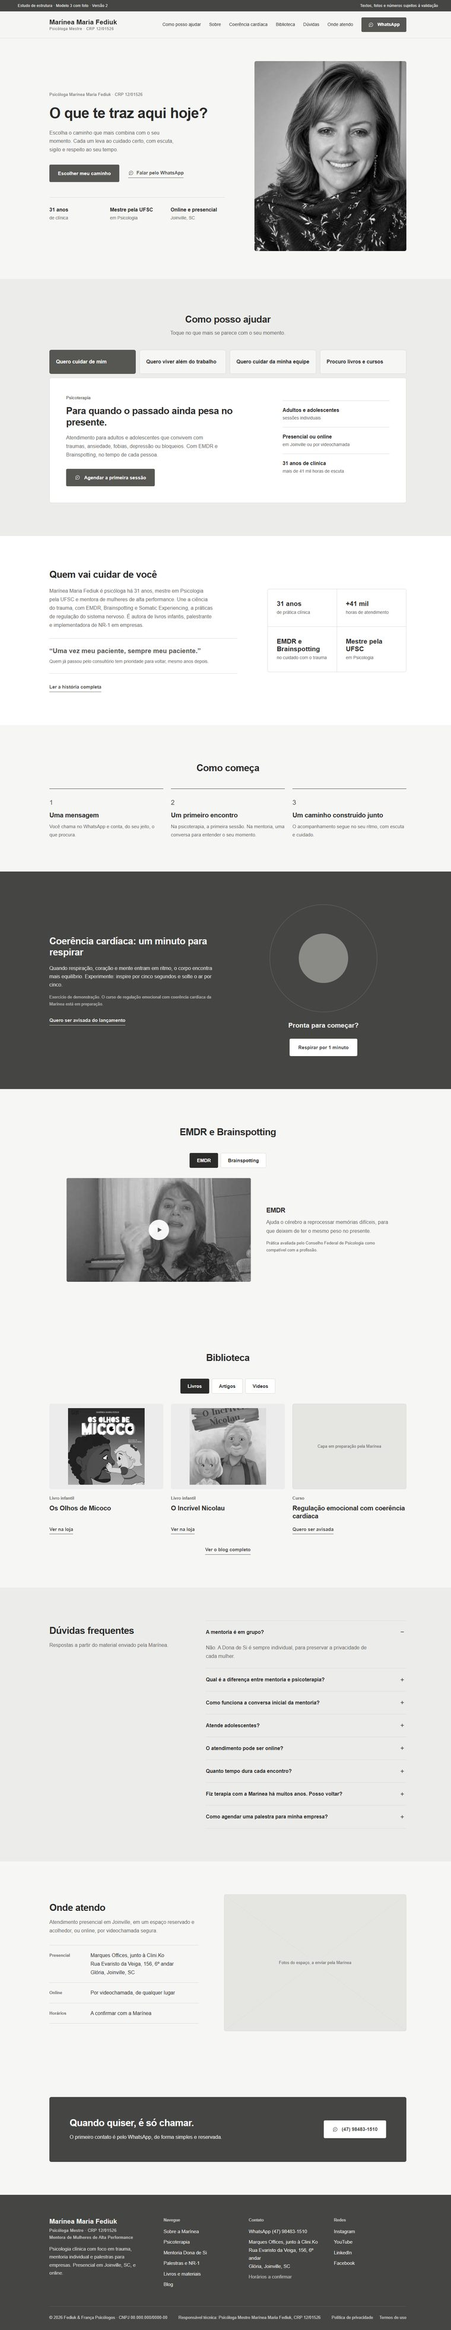
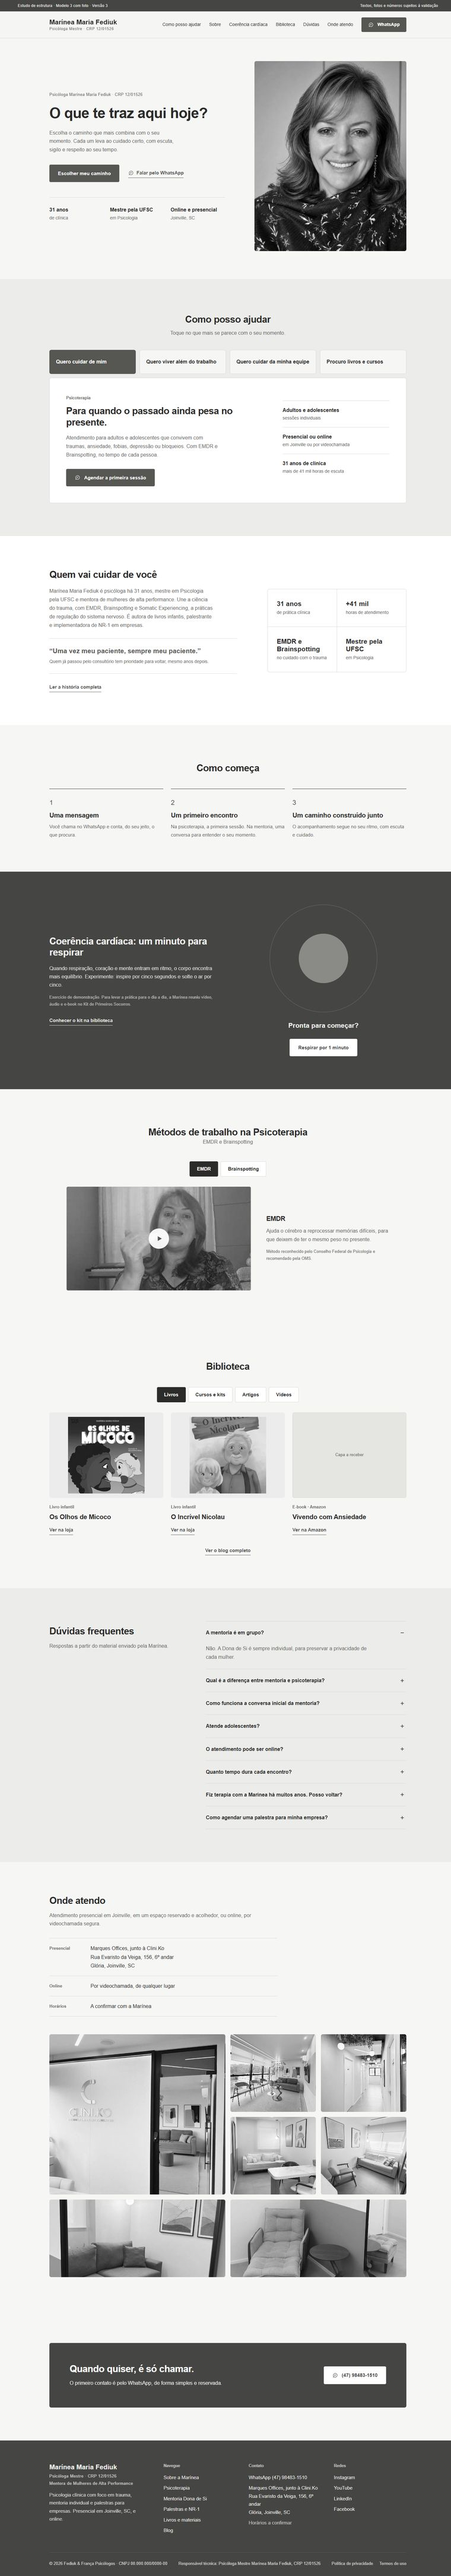
Rodada 3: fotos do espaco, kit e cursos, metodos, FAQ mentoria x psicoterapia

diff --git a/ideias/modelo-3-com-foto.html b/ideias/modelo-3-com-foto.html
@@ -12,7 +12,7 @@
 </head>
 <body>
 <a class="skip" href="#principal">Ir para o conteúdo</a>
-<div class="study"><span>Estudo de estrutura · Modelo 3 com foto · Versão 2</span><span>Textos, fotos e números sujeitos à validação</span></div>
+<div class="study"><span>Estudo de estrutura · Modelo 3 com foto · Versão 3</span><span>Textos, fotos e números sujeitos à validação</span></div>
 <header class="site-header">
   <div class="wrap bar">
     <a class="brand" href="#principal"><strong>Marínea Maria Fediuk</strong><span>Psicóloga Mestre · CRP 12/01526</span></a>
@@ -61,8 +61,8 @@
           <ul class="i3-panel-facts"><li><strong>Palestras</strong>para equipes e lideranças</li><li><strong>NR-1</strong>riscos psicossociais com olhar humano</li><li><strong>Acompanhamento</strong>do diagnóstico à implementação</li></ul>
         </div>
         <div class="i3-panel" role="tabpanel" id="painel-livros" aria-labelledby="tab-livros" tabindex="0" hidden>
-          <div class="i3-panel-copy"><p class="i3-kicker">Livros e materiais</p><h2>Para continuar o cuidado em casa.</h2><p>Livros infantis sobre emoções e relações em família, e o curso de regulação emocional com coerência cardíaca para o dia a dia.</p><a class="button" href="#materiais">Ver a biblioteca</a></div>
-          <ul class="i3-panel-facts"><li><strong>Os Olhos de Micoco</strong>livro infantil digital</li><li><strong>O Incrível Nicolau</strong>livro infantil digital</li><li><strong>Regulação emocional</strong>curso com coerência cardíaca em breve</li></ul>
+          <div class="i3-panel-copy"><p class="i3-kicker">Livros e materiais</p><h2>Para continuar o cuidado em casa.</h2><p>Livros infantis sobre emoções e relações em família, um e-book sobre ansiedade, o kit de coerência cardíaca e um curso de autoconhecimento.</p><a class="button" href="#materiais">Ver a biblioteca</a></div>
+          <ul class="i3-panel-facts"><li><strong>Livros</strong>infantis e sobre ansiedade, em versão digital</li><li><strong>Kit Coerência Cardíaca</strong>vídeo, áudio e e-book</li><li><strong>Ajustando sua Rota</strong>curso de autoconhecimento</li></ul>
         </div>
       </div>
     </div>
@@ -101,8 +101,8 @@
       <div>
         <h2 id="respirar-titulo">Coerência cardíaca: um minuto para respirar</h2>
         <p class="lead">Quando respiração, coração e mente entram em ritmo, o corpo encontra mais equilíbrio. Experimente: inspire por cinco segundos e solte o ar por cinco.</p>
-        <p class="i3-small">Exercício de demonstração. O curso de regulação emocional com coerência cardíaca da Marínea está em preparação.</p>
-        <a class="text-link" href="#contato" data-demo="No site final, este botão abre uma conversa no WhatsApp da Marínea.">Quero ser avisada do lançamento</a>
+        <p class="i3-small">Exercício de demonstração. Para levar a prática para o dia a dia, a Marínea reuniu vídeo, áudio e e-book no Kit de Primeiros Socorros.</p>
+        <a class="text-link" href="#materiais">Conhecer o kit na biblioteca</a>
       </div>
       <div class="i3-breath" data-breath>
         <div class="i3-circle" aria-hidden="true"><div class="i3-circle-inner"><span data-breath-count></span></div></div>
@@ -114,7 +114,7 @@
 
   <section class="i3-section" aria-labelledby="metodo-titulo">
     <div class="wrap">
-      <div class="i3-head"><h2 id="metodo-titulo">EMDR e Brainspotting</h2></div>
+      <div class="i3-head"><h2 id="metodo-titulo">Métodos de trabalho na Psicoterapia</h2><p class="lead">EMDR e Brainspotting</p></div>
       <div class="i3-method" data-tabs>
         <div class="i3-pill-tabs" role="tablist" aria-label="Métodos">
           <button role="tab" id="tab-emdr" aria-controls="painel-emdr" aria-selected="true" type="button">EMDR</button>
@@ -122,7 +122,7 @@
         </div>
         <div class="i3-method-panel" role="tabpanel" id="painel-emdr" aria-labelledby="tab-emdr">
           <button class="video" type="button" data-video="y5rBCnI321k" aria-label="Assistir: O que é EMDR?"><img src="../assets/video-emdr.jpg" alt="" width="480" height="270" loading="lazy"><span class="play"><svg viewBox="0 0 24 24" aria-hidden="true"><path d="M6 4l14 8-14 8z"/></svg></span></button>
-          <div><h3>EMDR</h3><p>Ajuda o cérebro a reprocessar memórias difíceis, para que deixem de ter o mesmo peso no presente.</p><p class="i3-small">Prática avaliada pelo Conselho Federal de Psicologia como compatível com a profissão.</p></div>
+          <div><h3>EMDR</h3><p>Ajuda o cérebro a reprocessar memórias difíceis, para que deixem de ter o mesmo peso no presente.</p><p class="i3-small">Método reconhecido pelo Conselho Federal de Psicologia e recomendado pela OMS.</p></div>
         </div>
         <div class="i3-method-panel" role="tabpanel" id="painel-bsp" aria-labelledby="tab-bsp" hidden>
           <button class="video" type="button" data-video="lNDUKpm4mGg" aria-label="Assistir: O que é Brainspotting?"><img src="../assets/video-brainspotting.jpg" alt="" width="480" height="270" loading="lazy"><span class="play"><svg viewBox="0 0 24 24" aria-hidden="true"><path d="M6 4l14 8-14 8z"/></svg></span></button>
@@ -138,13 +138,18 @@
       <div class="i3-library" data-tabs>
         <div class="i3-pill-tabs" role="tablist" aria-label="Biblioteca">
           <button role="tab" id="tab-lib-livros" aria-controls="lib-livros" aria-selected="true" type="button">Livros</button>
+          <button role="tab" id="tab-lib-cursos" aria-controls="lib-cursos" aria-selected="false" tabindex="-1" type="button">Cursos e kits</button>
           <button role="tab" id="tab-lib-artigos" aria-controls="lib-artigos" aria-selected="false" tabindex="-1" type="button">Artigos</button>
           <button role="tab" id="tab-lib-videos" aria-controls="lib-videos" aria-selected="false" tabindex="-1" type="button">Vídeos</button>
         </div>
         <div class="i3-cards" role="tabpanel" id="lib-livros" aria-labelledby="tab-lib-livros">
-          <article class="i3-card"><img src="../assets/livro-micoco.jpg" alt="Capa do livro Os Olhos de Micoco" width="300" height="300" loading="lazy"><span class="i3-tag">Livro infantil</span><h3>Os Olhos de Micoco</h3><a class="text-link" href="#" data-demo="No site final, este botão leva à página de compra na plataforma escolhida (Hotmart, Greenn ou Amazon).">Ver na loja</a></article>
-          <article class="i3-card"><img src="../assets/livro-nicolau.jpg" alt="Capa do livro O Incrível Nicolau" width="300" height="300" loading="lazy"><span class="i3-tag">Livro infantil</span><h3>O Incrível Nicolau</h3><a class="text-link" href="#" data-demo="No site final, este botão leva à página de compra na plataforma escolhida (Hotmart, Greenn ou Amazon).">Ver na loja</a></article>
-          <article class="i3-card"><div class="i3-card-cover">Capa em preparação pela Marínea</div><span class="i3-tag">Curso</span><h3>Regulação emocional com coerência cardíaca</h3><a class="text-link" href="#contato" data-demo="No site final, este botão abre uma conversa no WhatsApp da Marínea.">Quero ser avisada</a></article>
+          <article class="i3-card"><img src="../assets/livro-micoco.jpg" alt="Capa do livro Os Olhos de Micoco" width="300" height="300" loading="lazy"><span class="i3-tag">Livro infantil</span><h3>Os Olhos de Micoco</h3><a class="text-link" href="#" data-demo="No site final, este botão leva à página de compra na plataforma de venda de cada produto (Amazon, Hotmart ou outra).">Ver na loja</a></article>
+          <article class="i3-card"><img src="../assets/livro-nicolau.jpg" alt="Capa do livro O Incrível Nicolau" width="300" height="300" loading="lazy"><span class="i3-tag">Livro infantil</span><h3>O Incrível Nicolau</h3><a class="text-link" href="#" data-demo="No site final, este botão leva à página de compra na plataforma de venda de cada produto (Amazon, Hotmart ou outra).">Ver na loja</a></article>
+          <article class="i3-card"><div class="i3-card-cover">Capa a receber</div><span class="i3-tag">E-book · Amazon</span><h3>Vivendo com Ansiedade</h3><a class="text-link" href="https://www.amazon.com.br/Vivendo-com-Ansiedade-Estrat%C3%A9gias-autoconhecimento-ebook/dp/B0FYYK7HXL" target="_blank" rel="noopener">Ver na Amazon</a></article>
+        </div>
+        <div class="i3-cards i3-cards-tall" role="tabpanel" id="lib-cursos" aria-labelledby="tab-lib-cursos" hidden>
+          <article class="i3-card"><img src="../assets/capa-kit-coerencia.jpg" alt="Kit de Primeiros Socorros para Mulheres de Alta Performance: vídeo-bônus, áudio SOS Coerência e e-book Coerência Cardíaca" width="800" height="1000" loading="lazy"><span class="i3-tag">Produto digital</span><h3>Kit de Primeiros Socorros para Mulheres de Alta Performance</h3><p class="i3-small">Vídeo-bônus, áudio “SOS Coerência” e e-book “Coerência Cardíaca”.</p><a class="text-link" href="#" data-demo="No site final, este botão leva à página de compra na plataforma de venda de cada produto (Amazon, Hotmart ou outra).">Quero o kit</a></article>
+          <article class="i3-card"><div class="i3-card-cover">Capa a receber</div><span class="i3-tag">Curso · Hotmart</span><h3>Ajustando sua Rota</h3><p class="i3-small">Autoconhecimento para escolhas mais conscientes, em dez módulos.</p><a class="text-link" href="https://hotmart.com/pt-br/marketplace/produtos/ajustando-sua-rota/F7750654O" target="_blank" rel="noopener">Ver na Hotmart</a></article>
         </div>
         <div class="i3-cards" role="tabpanel" id="lib-artigos" aria-labelledby="tab-lib-artigos" hidden>
           <a class="i3-card" href="#" data-demo="Esta página interna será desenhada depois da escolha do layout." id="blog"><img src="../assets/blog-inverno.jpg" alt="" width="640" height="800" loading="lazy"><span class="i3-tag">Autocuidado</span><h3>O convite do inverno: por que precisamos desacelerar</h3></a>
@@ -166,7 +171,24 @@
       <div><h2 id="duvidas-titulo">Dúvidas frequentes</h2><p class="lead">Respostas a partir do material enviado pela Marínea.</p></div>
       <div class="i3-faq-list">
         <details open><summary>A mentoria é em grupo?<span aria-hidden="true"></span></summary><p>Não. A Dona de Si é sempre individual, para preservar a privacidade de cada mulher.</p></details>
-        <details><summary>Qual é a diferença entre mentoria e psicoterapia?<span aria-hidden="true"></span></summary><p>A mentoria é um processo de autoconhecimento, desenvolvimento e transformação pessoal. Não substitui a psicoterapia, mas pode caminhar junto a ela.</p></details>
+        <details><summary>Qual é a diferença entre mentoria e psicoterapia?<span aria-hidden="true"></span></summary><div class="m3-faq-long">
+          <p>Embora ambas envolvam conversas e reflexões, a mentoria e a psicoterapia são processos com finalidades, métodos e naturezas distintas. Entender essa diferença é fundamental para que você escolha o caminho mais adequado para o seu momento.</p>
+          <h4>Finalidade</h4>
+          <p>A <strong>mentoria</strong> é um processo orientado para o desenvolvimento de habilidades, competências e objetivos específicos, geralmente ligados à carreira, negócios, liderança ou projetos pessoais. O foco está no aprendizado a partir da experiência de alguém mais experiente em determinada área.</p>
+          <p>A <strong>psicoterapia</strong> é um processo clínico voltado para a compreensão e o cuidado de aspectos psicológicos e emocionais, como ansiedade, depressão, traumas, conflitos e padrões de relacionamento que se repetem. O foco está no universo interno e na saúde emocional.</p>
+          <h4>Direção do olhar</h4>
+          <p>A mentoria olha para o <strong>futuro</strong> e para <strong>fora</strong>: o que você quer construir, onde quer chegar, quais estratégias precisa desenvolver. Parte de objetivos definidos por você, com o suporte de quem já percorreu um caminho semelhante.</p>
+          <p>A psicoterapia olha para o <strong>presente</strong> e para <strong>dentro</strong>: o que você sente, como seus padrões se formaram, quais experiências moldaram sua forma de estar no mundo. O passado é explorado para compreender o que se repete e abrir espaço para novas formas de lidar com as dificuldades.</p>
+          <h4>Formação do profissional</h4>
+          <p>A psicoterapia é realizada exclusivamente por psicólogos com formação clínica, credenciados pelo Conselho Federal de Psicologia (CFP).</p>
+          <p>A mentoria pode ser conduzida por profissionais de diversas áreas que tenham experiência comprovada no tema em que atuam. No caso de psicólogos que também atuam como mentores, a prática é permitida desde que a(o) profissional siga rigorosamente os Princípios Fundamentais e artigos do Código de Ética Profissional do Psicólogo (Res. CFP nº 010/2005). Isso significa que, mesmo em uma relação de mentoria, o psicólogo não pode usar técnicas ou métodos que são privativos da Psicologia, nem realizar intervenções de natureza clínica.</p>
+          <h4>Natureza da relação</h4>
+          <p>Na psicoterapia, a relação é assimétrica, mas o saber sobre a própria vida é do paciente. O terapeuta não entrega soluções: ele acompanha um processo de elaboração e autoconhecimento.</p>
+          <p>Na mentoria, a relação é de tutoria: o mentor compartilha conhecimentos, experiências e perspectivas para ajudar o mentorado a tomar decisões e encurtar caminhos. O saber técnico e a vivência de quem mentora são recursos do processo.</p>
+          <h4>Ética e limites</h4>
+          <p>Quando um psicólogo atua como mentor, é fundamental que deixe <strong>muito claro</strong> que se trata de um serviço de orientação e desenvolvimento, e não de psicoterapia. Se, durante o processo de mentoria, o profissional identificar que a demanda da pessoa exige cuidados clínicos, é dever ético informar e encaminhar para o atendimento psicológico adequado.</p>
+          <p>Mentoria e psicoterapia não se substituem. Podem, inclusive, caminhar juntas, mas cada uma tem seu lugar, sua função e seus limites éticos.</p>
+        </div></details>
         <details><summary>Como funciona a conversa inicial da mentoria?<span aria-hidden="true"></span></summary><p>É um espaço de escuta e acolhimento. Você conta o que está vivendo e a Marínea explica como a mentoria pode ajudar.</p></details>
         <details><summary>Atende adolescentes?<span aria-hidden="true"></span></summary><p>Sim. A psicoterapia atende adultos e adolescentes.</p></details>
         <details><summary>O atendimento pode ser online?<span aria-hidden="true"></span></summary><p>Sim. O atendimento online é feito por videochamada segura. O presencial acontece em consultório reservado em Joinville.</p></details>
@@ -188,7 +210,17 @@
           <div><dt>Horários</dt><dd>A confirmar com a Marínea</dd></div>
         </dl>
       </div>
-      <figure class="m3-place-photo photo-slot"><span class="slot-label">Fotos do espaço, a enviar pela Marínea</span></figure>
+    </div>
+    <div class="wrap">
+      <ul class="m3-gallery" aria-label="Fotos do espaço de atendimento">
+        <li class="m3-g-big"><img src="../assets/espaco-entrada.jpg" alt="Entrada do espaço Clini.Ko, com a sala de espera ao fundo" width="900" height="1200" loading="lazy"></li>
+        <li><img src="../assets/espaco-recepcao.jpg" alt="Sala de espera com sofá, poltronas e janelas amplas" width="900" height="1200" loading="lazy"></li>
+        <li><img src="../assets/espaco-corredor.jpg" alt="Corredor com iluminação suave e plantas no teto" width="900" height="1200" loading="lazy"></li>
+        <li><img src="../assets/espaco-sala-mesa.jpg" alt="Sala de atendimento com sofá, mesa e quadros" width="900" height="1200" loading="lazy"></li>
+        <li><img src="../assets/espaco-sala-janela.jpg" alt="Sala de atendimento com sofá, poltrona e luz natural" width="900" height="1200" loading="lazy"></li>
+        <li class="m3-g-wide"><img src="../assets/espaco-sala-verde.jpg" alt="Sala de atendimento com sofá verde e quadros" width="900" height="1200" loading="lazy"></li>
+        <li class="m3-g-wide"><img src="../assets/espaco-sala-chaise.jpg" alt="Canto de descanso com chaise e espelho" width="900" height="1200" loading="lazy"></li>
+      </ul>
     </div>
   </section>
 

diff --git a/index.html b/index.html
@@ -1,11 +1,11 @@
 <!doctype html><html lang="pt-BR"><head><meta charset="utf-8"><meta name="viewport" content="width=device-width,initial-scale=1"><meta name="robots" content="noindex,nofollow"><meta name="description" content="Estudo de layout para o novo site da Psicóloga Marínea Maria Fediuk, desenvolvido pela Agência Kamino."><meta property="og:type" content="website"><meta property="og:url" content="https://rochamaatheus.github.io/marinea-apresentacao/"><meta property="og:title" content="Novo site da Marínea Fediuk: três ideias de layout"><meta property="og:description" content="Estudo de estrutura da Agência Kamino. Explore as três ideias e escolha as partes que mais combinam com você."><meta property="og:image" content="https://rochamaatheus.github.io/marinea-apresentacao/assets/og-image.jpg"><meta property="og:image:width" content="1200"><meta property="og:image:height" content="630"><meta name="twitter:card" content="summary_large_image"><title>Marínea Fediuk | Apresentação de layout | Agência Kamino</title><link rel="icon" href="assets/kamino-icon.webp"><link rel="stylesheet" href="assets/hub.css"></head><body>
 <header><div class="wrap top"><img src="assets/kamino-logo.webp" alt="Agência Kamino" width="160"><span>Psicóloga Marínea Fediuk</span><a href="#propostas">Ver propostas ↓</a></div></header>
 <main>
-<section class="hero wrap"><p class="tag">Segunda rodada de layout.</p><h1>O modelo 3,<br>agora com<br>a sua foto.</h1><p class="lead">Você gostou do modelo 3 e pediu a sua foto logo no início, como no modelo 1. Montamos essa versão, ajustamos o endereço e aproveitamos para deixar a página mais organizada e mais profissional.</p><div class="hero-bottom"><a class="button" href="#novo-modelo">Ver o modelo atualizado <span aria-hidden="true">↗</span></a><p>As três ideias da primeira rodada<br>continuam disponíveis mais abaixo.</p></div></section>
+<section class="hero wrap"><p class="tag">Terceira rodada de layout.</p><h1>O modelo 3,<br>com as suas<br>fotos e textos.</h1><p class="lead">Você aprovou a foto no início, o endereço e a nova organização da página. Nesta versão entraram as fotos do espaço, os produtos que você enviou e os seus textos sobre os métodos e sobre a diferença entre mentoria e psicoterapia.</p><div class="hero-bottom"><a class="button" href="#novo-modelo">Ver o modelo atualizado <span aria-hidden="true">↗</span></a><p>As três ideias da primeira rodada<br>continuam disponíveis mais abaixo.</p></div></section>
 
-<section class="wrap section" id="novo-modelo"><div class="section-title"><h2>O que mudou<br>nesta versão.</h2><p>Aplicamos o que você pediu e fizemos alguns refinamentos de organização. A página continua em cinza de propósito: a conversa ainda é sobre estrutura.</p></div><article class="idea idea-wide"><a class="preview" href="ideias/modelo-3-com-foto.html" aria-label="Abrir o modelo 3 com a sua foto"><img src="assets/preview-5.jpg" alt="Visão geral do modelo 3 atualizado, com a foto da Marínea no início" width="760" height="3925" loading="lazy"><span>Modelo 3</span></a><div class="idea-body"><p class="tag">Versão 2, disponível para avaliar</p><h3>Modelo 3 com a sua foto</h3><p class="base">Caminhos guiados, com abertura acolhedora</p><p>A pergunta “o que te traz aqui hoje?” continua sendo o centro da página, agora ao lado do seu retrato.</p><ul><li><strong>Sua foto no início</strong>, ao lado da pergunta, como no modelo 1.</li><li><strong>Endereço sem o número da sala</strong>: Rua Evaristo da Veiga, 156, 6º andar. Mudou na página inicial, na página da mentoria e nas três ideias.</li><li><strong>Curso de Regulação Emocional</strong> com coerência cardíaca no lugar do antigo e-book, com o espaço da capa que você vai preparar.</li><li><strong>Nova seção “Onde atendo”</strong>, com espaço reservado para as fotos do espaço que você vai tentar conseguir.</li><li><strong>Apresentação mais forte</strong>: títulos maiores, “Quem vai cuidar de você” logo depois dos caminhos, com os números da sua trajetória, e a foto sem repetição.</li><li><strong>Contato mais limpo</strong>: o endereço saiu do bloco final e ficou em um só lugar.</li></ul><a class="button" href="ideias/modelo-3-com-foto.html">Abrir o modelo atualizado <span aria-hidden="true">↗</span></a></div></article></section>
+<section class="wrap section" id="novo-modelo"><div class="section-title"><h2>O que mudou<br>nesta versão.</h2><p>Aplicamos o que você enviou ontem. A página continua em cinza de propósito: a conversa ainda é sobre estrutura. As cores, as fontes e o acabamento das fotos entram no design final.</p></div><article class="idea idea-wide"><a class="preview" href="ideias/modelo-3-com-foto.html" aria-label="Abrir o modelo 3 com a sua foto"><img src="assets/preview-5.jpg" alt="Visão geral do modelo 3 atualizado, com a foto da Marínea no início" width="760" height="4339" loading="lazy"><span>Modelo 3</span></a><div class="idea-body"><p class="tag">Versão 3, disponível para avaliar</p><h3>Modelo 3 com a sua foto</h3><p class="base">Caminhos guiados, com abertura acolhedora</p><p>A pergunta “o que te traz aqui hoje?” continua sendo o centro da página, ao lado do seu retrato. Já estavam aprovados: a foto no início, o endereço sem a sala e a página mais organizada, com “Quem vai cuidar de você” logo depois dos caminhos.</p><ul><li><strong>“Onde atendo” com as fotos do espaço</strong>: as sete fotos da Clini.Ko que você enviou, da entrada às salas de atendimento.</li><li><strong>Kit de Primeiros Socorros</strong> (Coerência Cardíaca) na biblioteca, na aba “Cursos e kits”, com a arte que você enviou como capa.</li><li><strong>“Ajustando sua Rota” fica no site</strong>, com o link da Hotmart, ao lado do kit.</li><li><strong>E-book “Vivendo com Ansiedade”</strong> na aba “Livros”, com o link da Amazon.</li><li><strong>“Métodos de trabalho na Psicoterapia”</strong> como título da seção de EMDR e Brainspotting, com a frase nova sobre o EMDR.</li><li><strong>Diferença entre mentoria e psicoterapia</strong>: o seu texto completo nas dúvidas frequentes, dividido nos cinco temas, e também na página da mentoria.</li></ul><a class="button" href="ideias/modelo-3-com-foto.html">Abrir o modelo atualizado <span aria-hidden="true">↗</span></a></div></article></section>
 
-<section class="wrap section feedback"><div><h2>O que gostaríamos<br>de ouvir de você.</h2><p>Quanto mais detalhe, melhor.<br>Pode responder só os pontos que quiser, por mensagem, áudio ou nos prints da pasta do Drive.</p></div><div class="examples"><p><strong>Foto:</strong> o tamanho, a posição e a foto escolhida estão como você imaginou? Prefere outra foto no início?</p><p><strong>Os quatro caminhos:</strong> os nomes “Quero cuidar de mim”, “Quero viver além do trabalho”, “Quero cuidar da minha equipe” e “Procuro livros e cursos” fazem sentido para o seu público?</p><p><strong>Textos:</strong> há alguma frase que você mudaria ou algo que não soa como você?</p><p><strong>O que falta:</strong> sente falta de algum bloco (depoimentos, linha do tempo, mais vídeos) ou acha que tem coisa demais?</p><p><strong>Endereço:</strong> podemos manter “6º andar” sem a sala? Se o número do andar também mudar, é só avisar.</p><p><strong>Curso:</strong> o nome “Regulação emocional com coerência cardíaca” está correto? Quando a capa estiver pronta, é só nos enviar.</p></div></section>
+<section class="wrap section feedback"><div><h2>O que gostaríamos<br>de ouvir de você.</h2><p>Quanto mais detalhe, melhor.<br>Pode responder só os pontos que quiser, por mensagem, áudio ou nos prints da pasta do Drive.</p></div><div class="examples"><p><strong>Fotos do espaço:</strong> a seleção e a ordem estão boas? Quer destacar alguma sala ou tirar alguma foto?</p><p><strong>Capas:</strong> falta a capa do e-book “Vivendo com Ansiedade” e a do curso “Ajustando sua Rota”. Pode nos enviar, ou usamos as que estão nas lojas?</p><p><strong>Kit de Primeiros Socorros:</strong> onde ele será vendido (Hotmart, Amazon ou outra plataforma) e se já está à venda ou ainda em lançamento?</p><p><strong>Textos:</strong> a frase sobre o EMDR e o texto da diferença entre mentoria e psicoterapia estão como você queria?</p><p><strong>Aprovação:</strong> com esses ajustes, podemos considerar esta estrutura fechada e seguir para o design final, com cores, fontes e fotos definitivas?</p></div></section>
 
 <section class="wrap section"><div class="section-title"><h2>As ideias da<br>primeira rodada.</h2><p>Caso queira rever alguma parte ou trazer algo delas para o modelo 3, as três ideias seguem abaixo.</p></div></section>
 
@@ -18,7 +18,7 @@
 <li><strong>Dentro das regras do Conselho</strong><span>Sem preço como chamada, sem promoção, sem sessão gratuita e sem promessa de resultado.</span></li>
 <li><strong>Um tom suave e elegante</strong><span>Frases calmas, espaço para respirar entre os blocos e as suas frases: “uma vez meu paciente, sempre meu paciente” e “nós somos um corpo onde tudo acontece”.</span></li>
 <li><strong>Seu material já está aqui</strong><span>Sua foto nova, o endereço do consultório na Clini.Ko, o mestrado pela UFSC, as 41 mil horas e o atendimento online e presencial.</span></li>
-<li><strong>O que fica e o que sai</strong><span>Continuam os vídeos de EMDR e Brainspotting, os livros infantis e o blog. Entra a coerência cardíaca. Sai o curso de 2018.</span></li>
+<li><strong>O que fica e o que sai</strong><span>Continuam os vídeos de EMDR e Brainspotting, os livros infantis e o blog. Entram a coerência cardíaca e o e-book da Amazon. O curso “Ajustando sua Rota” continua, por decisão sua.</span></li>
 </ul></section>
 
 <section class="wrap section" id="propostas"><div class="section-title"><h2>Três direções.<br>O mesmo cuidado.</h2><p>A primeira acolhe e explica com clareza. A segunda apresenta a sua trajetória como autora. A terceira pergunta o que a pessoa procura e mostra o caminho.</p></div><div class="ideas">
@@ -33,5 +33,5 @@
 
 <section class="wrap section"><div class="section-title"><h2>As páginas<br>do novo site.</h2><p>Nesta etapa desenhamos a página inicial e a página da mentoria. As outras páginas internas seguem a ideia que você escolher.</p></div><ul class="sitemap"><li class="on">Início</li><li>Sobre a Marínea</li><li>Psicoterapia</li><li class="on">Mentoria Dona de Si</li><li>Palestras e NR-1</li><li>Livros e materiais digitais</li><li>Blog</li><li>Contato</li></ul><p class="sitemap-note">O endereço continua o mesmo: psicologamarineafediuk.com. O site novo substitui o atual quando estiver pronto.</p></section>
 
-<section class="wrap section"><div class="pending"><h2>O que ainda vamos receber e validar.</h2><ul><li><strong>Fotos:</strong> as fotos do espaço novo (coworking), a sessão com a Thaíse e fotos em atendimento. Enquanto isso, a seção “Onde atendo” mostra um espaço reservado.</li><li><strong>Curso:</strong> a capa do curso de Regulação Emocional com coerência cardíaca, que você vai preparar.</li><li><strong>Fotos antigas:</strong> a foto do consultório antigo aparece só nas ideias da primeira rodada e será trocada. Por enquanto usamos a sua foto recente.</li><li><strong>Marca:</strong> o arquivo da sua ilustração com as borboletas e da assinatura, de preferência em PNG com fundo transparente ou vetor.</li><li><strong>Produtos:</strong> a plataforma de venda (Hotmart, Greenn ou Amazon) e a lista completa de livros.</li><li><strong>Contato:</strong> os horários de atendimento e o número do CNPJ da Fediuk &amp; França Psicólogos para o rodapé.</li><li><strong>Linha do tempo:</strong> os anos de cada etapa da sua formação, se quiser usar a ideia 2.</li></ul><p><strong>Para conferirmos juntos antes de publicar:</strong> mantivemos os textos da mentoria exatamente como você escreveu. Alguns pontos, como “cura de traumas” e as técnicas TAT e EFT, valem uma conferida com as orientações do Conselho sobre previsão de resultados e técnicas reconhecidas. Você conhece essas regras melhor do que ninguém, então a decisão é sua.</p><p>Os botões de WhatsApp e de compra são demonstrativos e não enviam mensagens. Os vídeos são os do seu canal do YouTube.</p></div></section>
+<section class="wrap section"><div class="pending"><h2>O que ainda vamos receber e validar.</h2><ul><li><strong>Fotos:</strong> a sessão profissional e fotos em atendimento, se houver. As fotos do espaço já estão na página; podem ser trocadas por outras a qualquer momento.</li><li><strong>Capas:</strong> a do e-book “Vivendo com Ansiedade” e a do curso “Ajustando sua Rota”.</li><li><strong>Fotos antigas:</strong> a foto do consultório antigo aparece só nas ideias da primeira rodada e será trocada. Por enquanto usamos a sua foto recente.</li><li><strong>Marca:</strong> o arquivo da sua ilustração com as borboletas e da assinatura, de preferência em PNG com fundo transparente ou vetor.</li><li><strong>Produtos:</strong> a plataforma de venda do Kit de Primeiros Socorros e a lista completa de livros.</li><li><strong>Contato:</strong> os horários de atendimento e o número do CNPJ da Fediuk &amp; França Psicólogos para o rodapé.</li><li><strong>Linha do tempo:</strong> os anos de cada etapa da sua formação, se quiser usar a ideia 2.</li></ul><p><strong>Para conferirmos juntos antes de publicar:</strong> mantivemos os textos da mentoria exatamente como você escreveu. Alguns pontos, como “cura de traumas” e as técnicas TAT e EFT, valem uma conferida com as orientações do Conselho sobre previsão de resultados e técnicas reconhecidas. Você conhece essas regras melhor do que ninguém, então a decisão é sua.</p><p>Os botões de WhatsApp e de compra são demonstrativos e não enviam mensagens. Os vídeos são os do seu canal do YouTube.</p></div></section>
 </main><footer class="wrap footer"><img src="assets/kamino-logo.webp" alt="Agência Kamino" width="130"><span>Psicóloga Marínea Maria Fediuk · Apresentação de layout</span><a href="#">Voltar ao início ↑</a></footer></body></html>

diff --git a/ideias/mentoria-dona-de-si.html b/ideias/mentoria-dona-de-si.html
@@ -93,7 +93,24 @@
       <h2 id="duvidas-titulo" class="m-title">Perguntas frequentes</h2>
       <div class="m-faq-list">
         <details open><summary>O atendimento é sigiloso?<span aria-hidden="true"></span></summary><p>Sim. O atendimento é individual, online ou presencial, com total discrição e confidencialidade.</p></details>
-        <details><summary>Qual é a diferença entre mentoria e psicoterapia?<span aria-hidden="true"></span></summary><p>A mentoria é um processo de autoconhecimento, desenvolvimento e transformação pessoal. Não substitui a psicoterapia, mas pode caminhar junto a ela. No meu trabalho, integro ferramentas clínicas e de mentoria conforme a necessidade de cada mulher.</p></details>
+        <details><summary>Qual é a diferença entre mentoria e psicoterapia?<span aria-hidden="true"></span></summary><div class="m3-faq-long">
+          <p>Embora ambas envolvam conversas e reflexões, a mentoria e a psicoterapia são processos com finalidades, métodos e naturezas distintas. Entender essa diferença é fundamental para que você escolha o caminho mais adequado para o seu momento.</p>
+          <h4>Finalidade</h4>
+          <p>A <strong>mentoria</strong> é um processo orientado para o desenvolvimento de habilidades, competências e objetivos específicos, geralmente ligados à carreira, negócios, liderança ou projetos pessoais. O foco está no aprendizado a partir da experiência de alguém mais experiente em determinada área.</p>
+          <p>A <strong>psicoterapia</strong> é um processo clínico voltado para a compreensão e o cuidado de aspectos psicológicos e emocionais, como ansiedade, depressão, traumas, conflitos e padrões de relacionamento que se repetem. O foco está no universo interno e na saúde emocional.</p>
+          <h4>Direção do olhar</h4>
+          <p>A mentoria olha para o <strong>futuro</strong> e para <strong>fora</strong>: o que você quer construir, onde quer chegar, quais estratégias precisa desenvolver. Parte de objetivos definidos por você, com o suporte de quem já percorreu um caminho semelhante.</p>
+          <p>A psicoterapia olha para o <strong>presente</strong> e para <strong>dentro</strong>: o que você sente, como seus padrões se formaram, quais experiências moldaram sua forma de estar no mundo. O passado é explorado para compreender o que se repete e abrir espaço para novas formas de lidar com as dificuldades.</p>
+          <h4>Formação do profissional</h4>
+          <p>A psicoterapia é realizada exclusivamente por psicólogos com formação clínica, credenciados pelo Conselho Federal de Psicologia (CFP).</p>
+          <p>A mentoria pode ser conduzida por profissionais de diversas áreas que tenham experiência comprovada no tema em que atuam. No caso de psicólogos que também atuam como mentores, a prática é permitida desde que a(o) profissional siga rigorosamente os Princípios Fundamentais e artigos do Código de Ética Profissional do Psicólogo (Res. CFP nº 010/2005). Isso significa que, mesmo em uma relação de mentoria, o psicólogo não pode usar técnicas ou métodos que são privativos da Psicologia, nem realizar intervenções de natureza clínica.</p>
+          <h4>Natureza da relação</h4>
+          <p>Na psicoterapia, a relação é assimétrica, mas o saber sobre a própria vida é do paciente. O terapeuta não entrega soluções: ele acompanha um processo de elaboração e autoconhecimento.</p>
+          <p>Na mentoria, a relação é de tutoria: o mentor compartilha conhecimentos, experiências e perspectivas para ajudar o mentorado a tomar decisões e encurtar caminhos. O saber técnico e a vivência de quem mentora são recursos do processo.</p>
+          <h4>Ética e limites</h4>
+          <p>Quando um psicólogo atua como mentor, é fundamental que deixe <strong>muito claro</strong> que se trata de um serviço de orientação e desenvolvimento, e não de psicoterapia. Se, durante o processo de mentoria, o profissional identificar que a demanda da pessoa exige cuidados clínicos, é dever ético informar e encaminhar para o atendimento psicológico adequado.</p>
+          <p>Mentoria e psicoterapia não se substituem. Podem, inclusive, caminhar juntas, mas cada uma tem seu lugar, sua função e seus limites éticos.</p>
+        </div></details>
         <details><summary>Como funciona a primeira conversa?<span aria-hidden="true"></span></summary><p>A conversa inicial é um espaço de escuta e acolhimento. Nela, você me conta o que está vivendo e eu explico como a mentoria pode te ajudar. Sem compromisso, sem pressão.</p></details>
         <details><summary>O atendimento é online ou presencial?<span aria-hidden="true"></span></summary><p>Ambos. O atendimento online é feito por videochamada segura. O presencial acontece em consultório reservado em Joinville/SC.</p></details>
         <details><summary>Qual é a duração e a frequência dos encontros?<span aria-hidden="true"></span></summary><p>Os encontros têm duração de 50 a 60 minutos e a frequência é definida em conjunto, respeitando sua agenda e seu ritmo.</p></details>

diff --git a/ideias/ideia-1-acolhimento.html b/ideias/ideia-1-acolhimento.html
@@ -138,8 +138,8 @@
     <div class="wrap">
       <div class="i1-split-head"><div><h2 id="materiais-titulo">Livros e materiais</h2></div><a class="text-link" href="#" data-demo="Esta página interna será desenhada depois da escolha do layout.">Ver todos os materiais</a></div>
       <div class="i1-products">
-        <article><img src="../assets/livro-micoco.jpg" alt="Capa do livro Os Olhos de Micoco" width="300" height="300" loading="lazy"><p class="i1-product-type">Livro infantil digital</p><h3>Os Olhos de Micoco</h3><p>Amizade, coragem e o jeito de uma criança olhar para as diferenças.</p><a class="text-link" href="#" data-demo="No site final, este botão leva à página de compra na plataforma escolhida (Hotmart, Greenn ou Amazon).">Ver na loja</a></article>
-        <article><img src="../assets/livro-nicolau.jpg" alt="Capa do livro O Incrível Nicolau" width="300" height="300" loading="lazy"><p class="i1-product-type">Livro infantil digital</p><h3>O Incrível Nicolau</h3><p>Memórias de família contadas pelo olhar encantado de uma neta.</p><a class="text-link" href="#" data-demo="No site final, este botão leva à página de compra na plataforma escolhida (Hotmart, Greenn ou Amazon).">Ver na loja</a></article>
+        <article><img src="../assets/livro-micoco.jpg" alt="Capa do livro Os Olhos de Micoco" width="300" height="300" loading="lazy"><p class="i1-product-type">Livro infantil digital</p><h3>Os Olhos de Micoco</h3><p>Amizade, coragem e o jeito de uma criança olhar para as diferenças.</p><a class="text-link" href="#" data-demo="No site final, este botão leva à página de compra na plataforma de venda de cada produto (Amazon, Hotmart ou outra).">Ver na loja</a></article>
+        <article><img src="../assets/livro-nicolau.jpg" alt="Capa do livro O Incrível Nicolau" width="300" height="300" loading="lazy"><p class="i1-product-type">Livro infantil digital</p><h3>O Incrível Nicolau</h3><p>Memórias de família contadas pelo olhar encantado de uma neta.</p><a class="text-link" href="#" data-demo="No site final, este botão leva à página de compra na plataforma de venda de cada produto (Amazon, Hotmart ou outra).">Ver na loja</a></article>
         <article class="i1-soon"><div class="i1-soon-cover">Capa a definir</div><p class="i1-product-type">E-book e curso</p><h3>Coerência cardíaca e regulação emocional</h3><p>Respiração, ritmo do coração e emoções em equilíbrio, com exercícios para o dia a dia.</p><a class="text-link" href="#contato" data-demo="No site final, este botão abre uma conversa no WhatsApp da Marínea.">Quero saber quando sair</a></article>
       </div>
     </div>

diff --git a/ideias/ideia-3-caminhos.html b/ideias/ideia-3-caminhos.html
@@ -128,8 +128,8 @@
           <button role="tab" id="tab-lib-videos" aria-controls="lib-videos" aria-selected="false" tabindex="-1" type="button">Vídeos</button>
         </div>
         <div class="i3-cards" role="tabpanel" id="lib-livros" aria-labelledby="tab-lib-livros">
-          <article class="i3-card"><img src="../assets/livro-micoco.jpg" alt="Capa do livro Os Olhos de Micoco" width="300" height="300" loading="lazy"><span class="i3-tag">Livro infantil</span><h3>Os Olhos de Micoco</h3><a class="text-link" href="#" data-demo="No site final, este botão leva à página de compra na plataforma escolhida (Hotmart, Greenn ou Amazon).">Ver na loja</a></article>
-          <article class="i3-card"><img src="../assets/livro-nicolau.jpg" alt="Capa do livro O Incrível Nicolau" width="300" height="300" loading="lazy"><span class="i3-tag">Livro infantil</span><h3>O Incrível Nicolau</h3><a class="text-link" href="#" data-demo="No site final, este botão leva à página de compra na plataforma escolhida (Hotmart, Greenn ou Amazon).">Ver na loja</a></article>
+          <article class="i3-card"><img src="../assets/livro-micoco.jpg" alt="Capa do livro Os Olhos de Micoco" width="300" height="300" loading="lazy"><span class="i3-tag">Livro infantil</span><h3>Os Olhos de Micoco</h3><a class="text-link" href="#" data-demo="No site final, este botão leva à página de compra na plataforma de venda de cada produto (Amazon, Hotmart ou outra).">Ver na loja</a></article>
+          <article class="i3-card"><img src="../assets/livro-nicolau.jpg" alt="Capa do livro O Incrível Nicolau" width="300" height="300" loading="lazy"><span class="i3-tag">Livro infantil</span><h3>O Incrível Nicolau</h3><a class="text-link" href="#" data-demo="No site final, este botão leva à página de compra na plataforma de venda de cada produto (Amazon, Hotmart ou outra).">Ver na loja</a></article>
           <article class="i3-card"><div class="i3-card-cover">Capa a definir</div><span class="i3-tag">E-book e curso</span><h3>Coerência cardíaca e regulação emocional</h3><a class="text-link" href="#contato" data-demo="No site final, este botão abre uma conversa no WhatsApp da Marínea.">Quero ser avisada</a></article>
         </div>
         <div class="i3-cards" role="tabpanel" id="lib-artigos" aria-labelledby="tab-lib-artigos" hidden>

diff --git a/ideias/ideia-2-editorial.html b/ideias/ideia-2-editorial.html
@@ -154,8 +154,8 @@
     <div class="wrap">
       <div class="i2-section-head"><h2 id="materiais-titulo">Livros e materiais</h2><a class="text-link" href="#" data-demo="Esta página interna será desenhada depois da escolha do layout.">Página de materiais</a></div>
       <div class="i2-books">
-        <article><img src="../assets/livro-micoco.jpg" alt="Capa do livro Os Olhos de Micoco" width="300" height="300" loading="lazy"><h3>Os Olhos de Micoco</h3><p>Livro infantil digital</p><a class="text-link" href="#" data-demo="No site final, este botão leva à página de compra na plataforma escolhida (Hotmart, Greenn ou Amazon).">Ver na loja</a></article>
-        <article><img src="../assets/livro-nicolau.jpg" alt="Capa do livro O Incrível Nicolau" width="300" height="300" loading="lazy"><h3>O Incrível Nicolau</h3><p>Livro infantil digital</p><a class="text-link" href="#" data-demo="No site final, este botão leva à página de compra na plataforma escolhida (Hotmart, Greenn ou Amazon).">Ver na loja</a></article>
+        <article><img src="../assets/livro-micoco.jpg" alt="Capa do livro Os Olhos de Micoco" width="300" height="300" loading="lazy"><h3>Os Olhos de Micoco</h3><p>Livro infantil digital</p><a class="text-link" href="#" data-demo="No site final, este botão leva à página de compra na plataforma de venda de cada produto (Amazon, Hotmart ou outra).">Ver na loja</a></article>
+        <article><img src="../assets/livro-nicolau.jpg" alt="Capa do livro O Incrível Nicolau" width="300" height="300" loading="lazy"><h3>O Incrível Nicolau</h3><p>Livro infantil digital</p><a class="text-link" href="#" data-demo="No site final, este botão leva à página de compra na plataforma de venda de cada produto (Amazon, Hotmart ou outra).">Ver na loja</a></article>
         <article><div class="i2-cover">Capa a definir</div><h3>Coerência cardíaca e regulação emocional</h3><p>E-book e curso</p><a class="text-link" href="#contato" data-demo="No site final, este botão abre uma conversa no WhatsApp da Marínea.">Quero ser avisada</a></article>
         <article><div class="i2-cover muted-cover">Capa a enviar</div><h3>Outras publicações</h3><p>Lista a confirmar com a Marínea</p></article>
       </div>

diff --git a/assets/modelo-3.css b/assets/modelo-3.css
@@ -24,18 +24,31 @@
 .m3-numbers strong{font-size:var(--h3);line-height:1.15;color:var(--ink);font-family:var(--serif)}
 
 .m3-place-section{background:var(--paper)}
-.m3-place{display:grid;grid-template-columns:.9fr 1.1fr;gap:80px;align-items:center}
+.m3-place-copy{max-width:720px}
 .m3-place-copy h2{margin-bottom:16px}
 .m3-place-list{margin:32px 0 0;padding:0}
 .m3-place-list div{display:grid;grid-template-columns:110px 1fr;gap:20px;padding:18px 0;border-top:1px solid var(--line)}
 .m3-place-list div:last-child{border-bottom:1px solid var(--line)}
 .m3-place-list dt{font-size:var(--small);font-weight:700;color:var(--muted);padding-top:3px}
 .m3-place-list dd{margin:0;font-size:16px}
-.m3-place-photo{margin:0;width:100%;min-width:0;aspect-ratio:4/3}
+.m3-gallery{display:grid;grid-template-columns:repeat(4,1fr);grid-auto-rows:clamp(160px,17vw,250px);gap:16px;margin-top:56px}
+.m3-gallery li{min-width:0;min-height:0;overflow:hidden;border-radius:var(--radius)}
+.m3-gallery img{width:100%;height:100%;object-fit:cover;display:block}
+.m3-g-big{grid-column:span 2;grid-row:span 2}
+.m3-g-wide{grid-column:span 2}
+.m3-faq-long{padding:0 0 24px;color:var(--muted);max-width:62ch}
+details div.m3-faq-long p{padding:0;margin:0 0 14px;max-width:none}
+.m3-faq-long h4{margin:26px 0 10px;font-size:16px;color:var(--ink)}
+.m3-faq-long strong{color:var(--ink)}
+.i3-cards-tall{grid-template-columns:repeat(2,minmax(0,360px));justify-content:center;gap:40px}
+.i3-cards-tall .i3-card>img,.i3-cards-tall .i3-card-cover{aspect-ratio:4/5;object-position:center}
 
 @media (max-width:900px){
   .m3-hero{padding:40px 0 64px}
-  .m3-hero-grid,.m3-about,.m3-place{grid-template-columns:1fr;gap:40px}
+  .m3-hero-grid,.m3-about{grid-template-columns:1fr;gap:40px}
+  .m3-gallery{grid-template-columns:repeat(2,1fr);grid-auto-rows:clamp(150px,34vw,260px);gap:12px;margin-top:40px}
+  .m3-g-wide{grid-column:span 1}
+  .i3-cards-tall{grid-template-columns:minmax(0,420px);gap:32px}
   .m3-hero-photo{order:-1;max-width:none;justify-self:stretch;aspect-ratio:4/3.6;object-position:center 22%}
   .m3-hero-copy h1{max-width:none}
   .m3-paths-section{padding:64px 0 72px}

diff --git a/assets/mentoria.css b/assets/mentoria.css
@@ -67,3 +67,8 @@
   .m-hero .button,.m-cta .button{width:100%}
   .m-who li{font-size:16px}
 }
+
+.m3-faq-long{padding:0 0 24px;color:var(--muted);max-width:62ch}
+details div.m3-faq-long p{padding:0;margin:0 0 14px;max-width:none}
+.m3-faq-long h4{margin:26px 0 10px;font-size:16px;color:var(--ink)}
+.m3-faq-long strong{color:var(--ink)}
